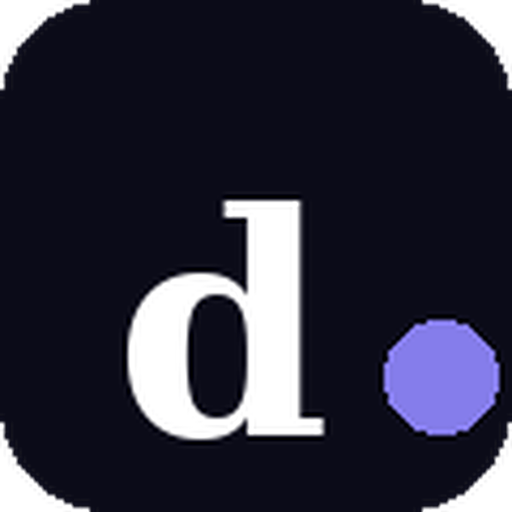
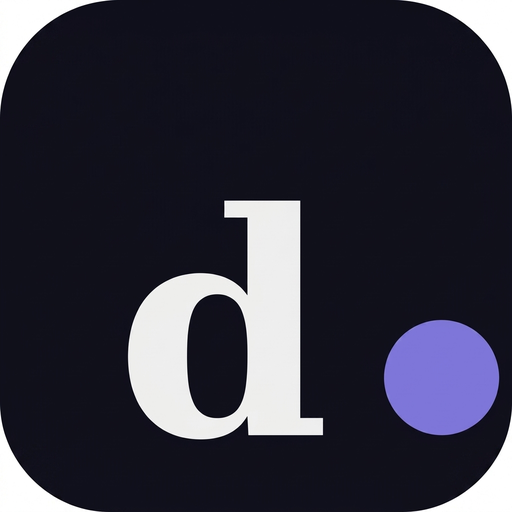
Update Dythin landing page and app layout features

diff --git a/index.html b/index.html
@@ -26,9 +26,9 @@
   <meta name="twitter:description" content="Kombinlerin ve kararsızlıkların için fotoğraflarınla anında canlı oy topla.">
   <meta name="twitter:image" content="https://images.unsplash.com/photo-1515886657613-9f3515b0c78f?auto=format&fit=crop&w=1200&h=630&q=80">
 
-      <!-- Favicons & Safari Tab Icons (1st HD Master Logo Base64 & Web) -->
[2 lines of base64/hex data omitted]
+        <!-- Favicons & Safari Tab Icons (Crisp 3rd Style Logo Base64 & Web) -->
[2 lines of base64/hex data omitted]
   <link rel="apple-touch-icon" sizes="180x180" href="/apple-touch-icon.png">
   <link rel="icon" type="image/png" sizes="32x32" href="/favicon-32x32.png">
   <link rel="icon" type="image/png" sizes="16x16" href="/favicon-16x16.png">

diff --git a/website/index.html b/website/index.html
@@ -26,9 +26,9 @@
   <meta name="twitter:description" content="Kombinlerin ve kararsızlıkların için fotoğraflarınla anında canlı oy topla.">
   <meta name="twitter:image" content="https://images.unsplash.com/photo-1515886657613-9f3515b0c78f?auto=format&fit=crop&w=1200&h=630&q=80">
 
-      <!-- Favicons & Safari Tab Icons (1st HD Master Logo Base64 & Web) -->
[2 lines of base64/hex data omitted]
+        <!-- Favicons & Safari Tab Icons (Crisp 3rd Style Logo Base64 & Web) -->
[2 lines of base64/hex data omitted]
   <link rel="apple-touch-icon" sizes="180x180" href="/apple-touch-icon.png">
   <link rel="icon" type="image/png" sizes="32x32" href="/favicon-32x32.png">
   <link rel="icon" type="image/png" sizes="16x16" href="/favicon-16x16.png">
